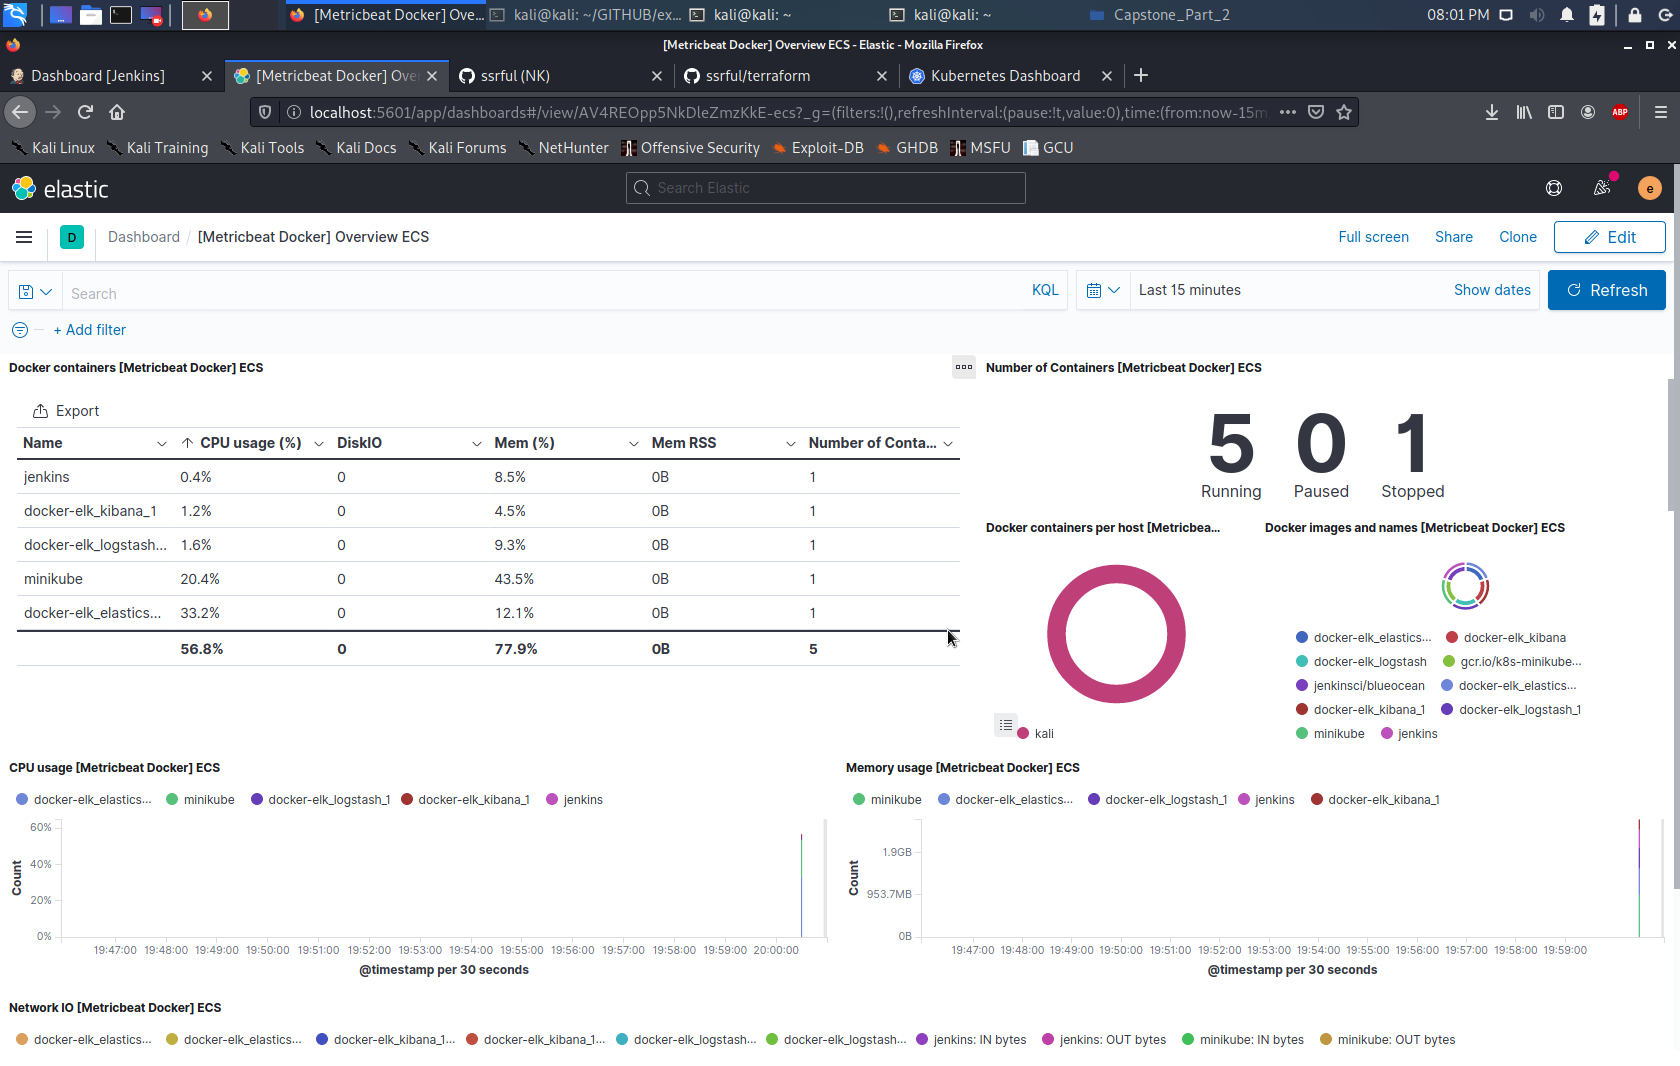
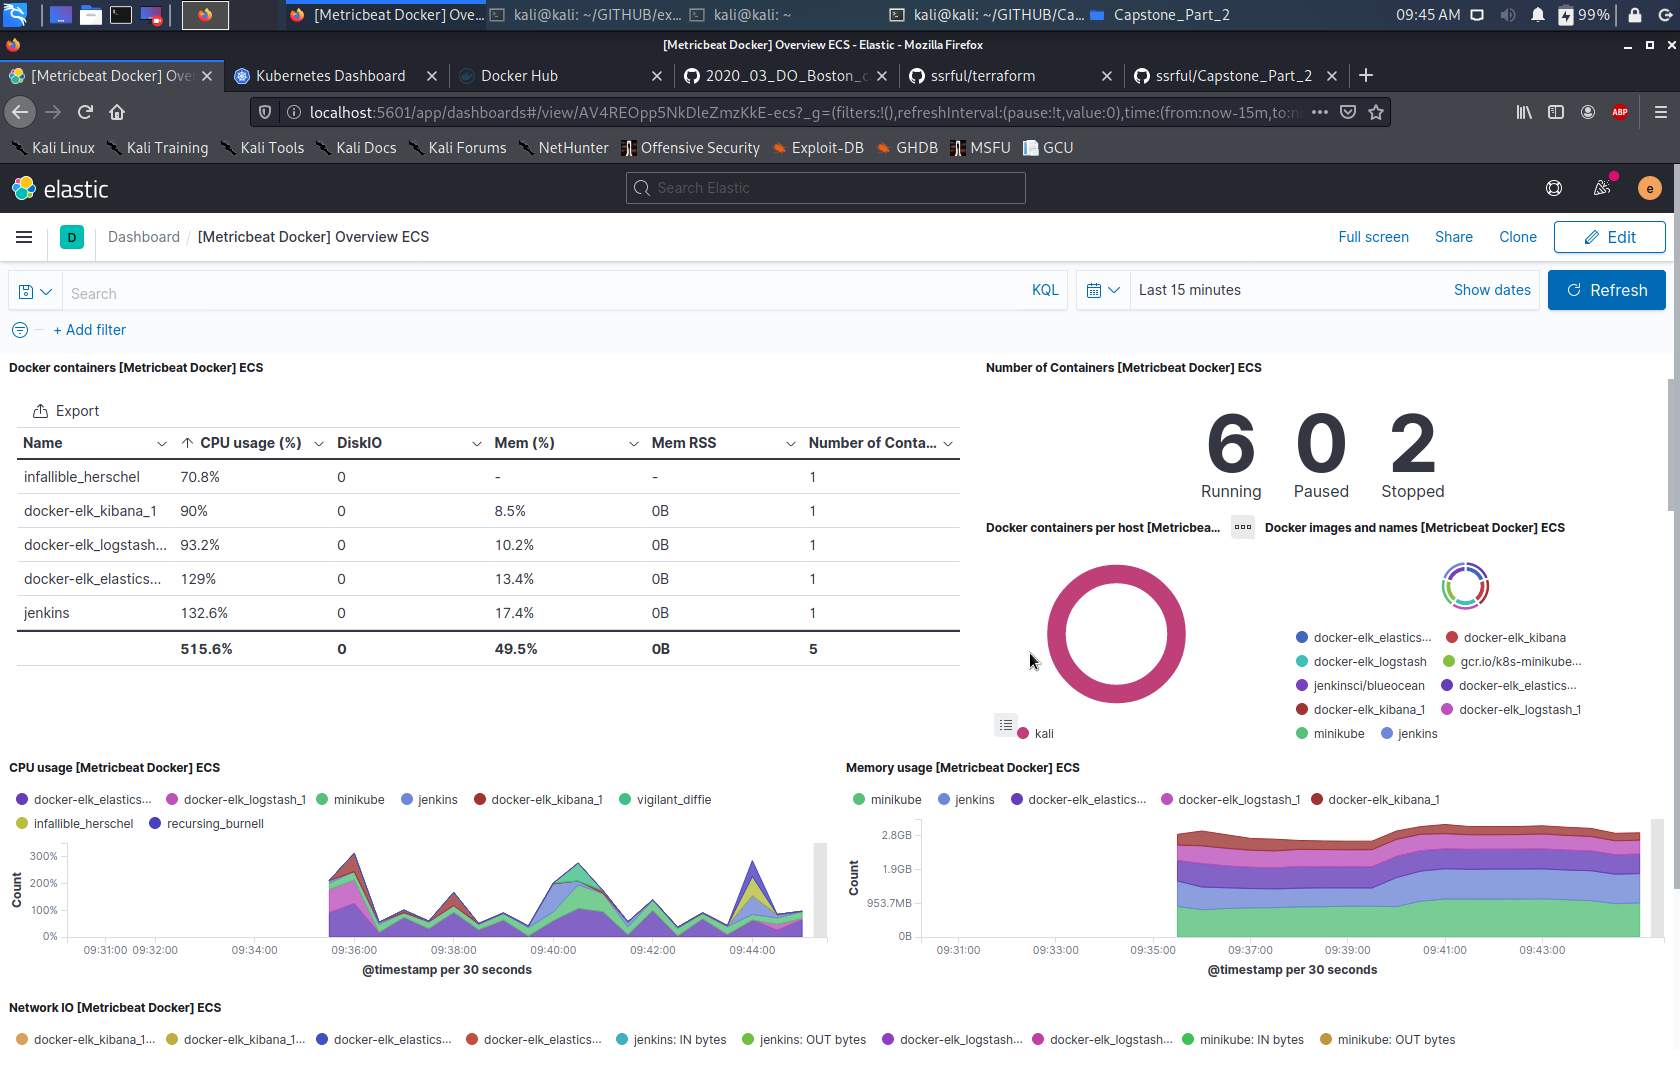
some changes

diff --git a/README.md b/README.md
@@ -3,8 +3,8 @@
 # Project Capstone - Part II. 
 
 ## 🔥 Project Brief Overview:
-Building a Docker Jenkins Pipeline, Testing Application, Pushing to Docker Hub, and Deploying to Kubernetes 
-- **When** using Jenkins, we need to install Docker for specific OS. In my case, I install Docker on Kali Linux(Debian)
+Building a Docker Jenkins Pipeline, Testing Application, Pushing to Docker Hub, using Terraform create a Kubernetes cluster and finally monitor the pods and Docker using ELK Stack
+- **When** using Jenkins, we need to install Docker for specific OS. In my case, I install Docker on Kali Linux(Ubuntu/Debian)
 - **Then** pull the Jenkins image and deploy it on Docker, we will create Dockerized Jenkins.
 - **Then** install necessary Jenkins Plugins:
 ```
@@ -17,11 +17,13 @@ Building a Docker Jenkins Pipeline, Testing Application, Pushing to Docker Hub, 
 • Shining Panda
 ```
 - **Then** add Docker Hub credentials to push the image after build will be tested in Jenkins.
-- **And** image will be pushed to Docker Hub. _Kubernetes.yaml_ file is required to pull image from DockerHub and create 5 pods in Kubernetes.
+- **Then** image will be pushed to Docker Hub.
+- **Then** using Terraform create a Kubernetes cluster to create 3 pods
+- **Then** using ELK Stack, install Metricbeat
+- **And** install Docker and Kubernetes metrics to monitor the Docker Container and Kubernetes clusters
 
 ## 📌 Must Have
-- The following file are must have in order to achieve the results: **Dockerfile,** **Jenkinsfile,** **kubernetes.yaml,** **Ansible-Playbook.yaml**
-- **Optional** to have _**yaml**_ file with necessary commands which will run and install all dependencies on Client VM automatically via Ansible.
+- The following file are must have in order to achieve the results: **Dockerfile,** **Jenkinsfile,** **kubernetes.yaml,** **Ansible-Playbook.yaml**, **terraform.tf**
 
 ## ❗ Visual overview of Project
-![image](https://raw.github.com/ssrful/2020_03_DO_Boston_casestudy_part_1/main/templates/CAPSTONE_PROJECT.jpg)
+![image](https://raw.github.com/ssrful/Capstone_Part_2/main/templates/CAPSTONE_PROJECT_2.png)
